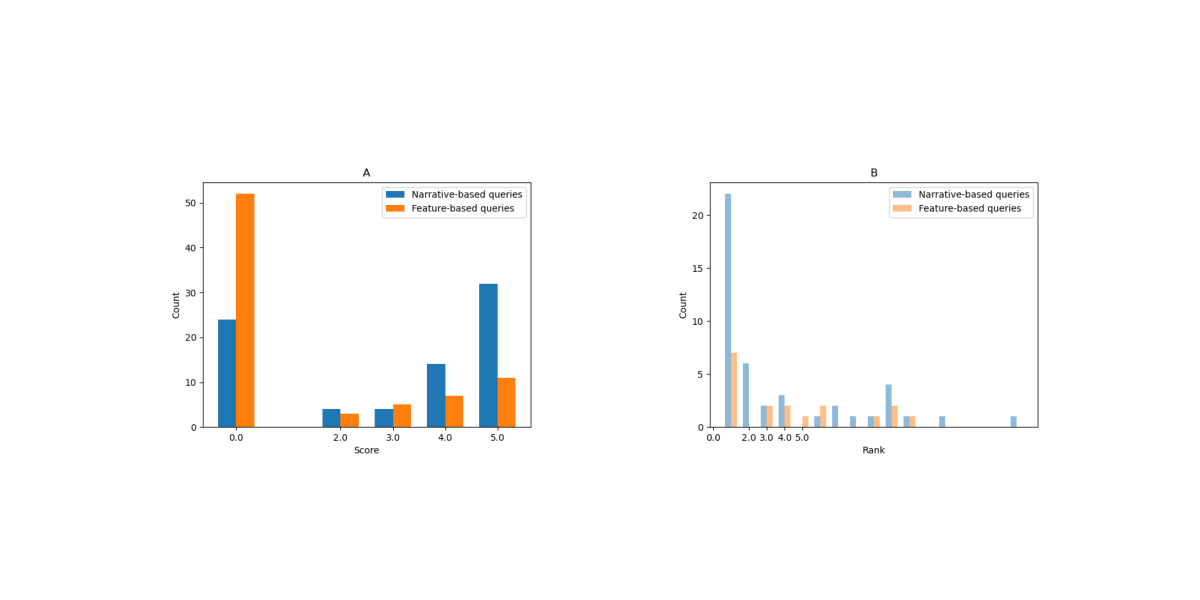
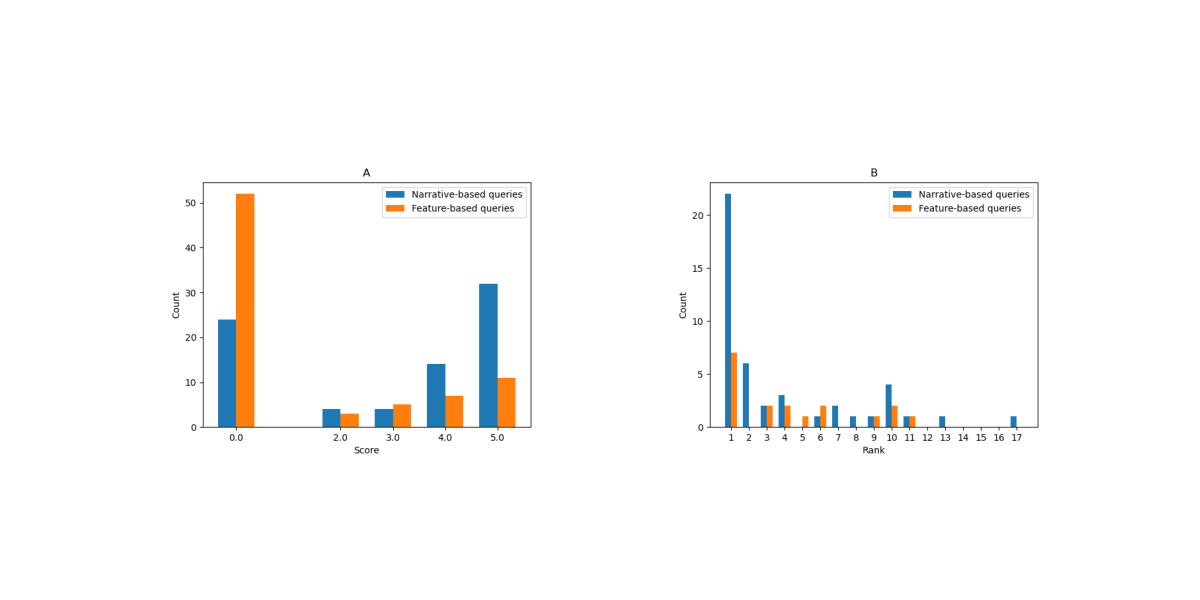
Tweak

Changed region(s): [[0.5858, 0.33, 0.8633, 0.75], [0.74, 0.3, 0.7708, 0.36]]

diff --git a/figure2.py b/figure2.py
@@ -93,14 +93,14 @@ this_min = int(max(min(rank_counts_file1.index.tolist() + rank_counts_file2.inde
 rank_counts_file1 = set_empty_indices_to_zero(rank_counts_file1, this_min, this_max)
 rank_counts_file2 = set_empty_indices_to_zero(rank_counts_file2, this_min, this_max)
 
-bar3 = ax2.bar(rank_counts_file1.index - bar_width/2, rank_counts_file1, bar_width, alpha=0.5, label=file1_label)
-bar4 = ax2.bar(rank_counts_file2.index + bar_width/2, rank_counts_file2, bar_width, alpha=0.5, label=file2_label)
+bar3 = ax2.bar(rank_counts_file1.index - bar_width/2, rank_counts_file1, bar_width, alpha=1, label=file1_label)
+bar4 = ax2.bar(rank_counts_file2.index + bar_width/2, rank_counts_file2, bar_width, alpha=1, label=file2_label)
 
 ax2.set_xlabel('Rank')
 ax2.set_ylabel('Count')
 ax2.set_title('B')
-ax2.set_xticks(index)
-ax2.set_xticklabels(index)
+ax2.set_xticks(rank_counts_file1.index)
+ax2.set_xticklabels(rank_counts_file1.index)
 ax2.legend()
 
 # Save the second figure to a PNG file
